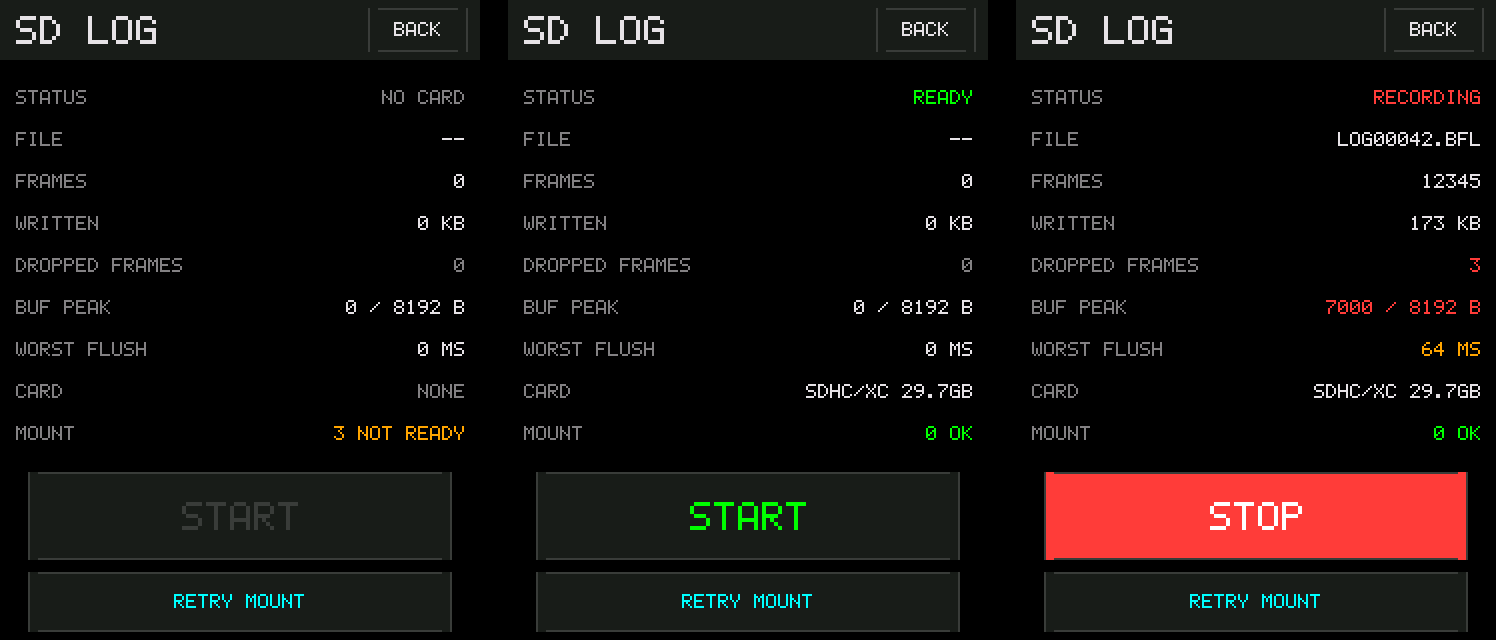
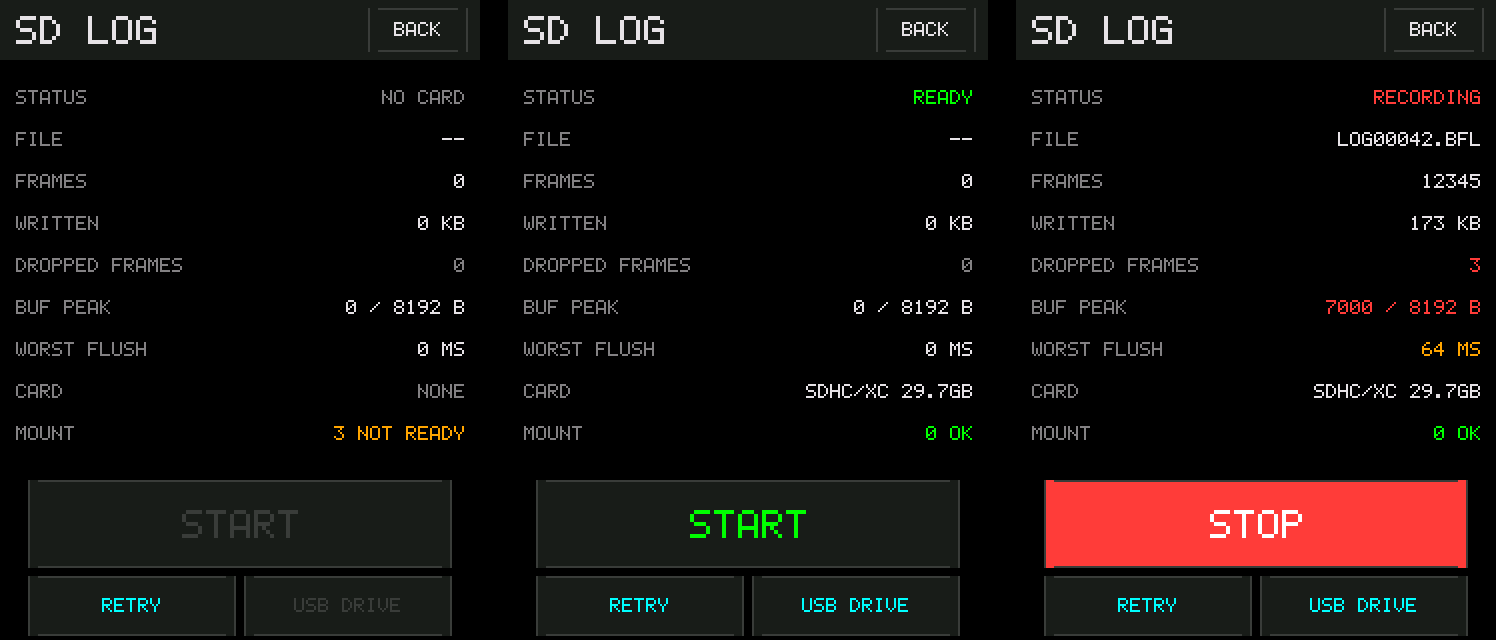
docs: the USB drive, in English and German
On the SD Logging pages, where someone looking for their files already is,
rather than a page of its own.

Three things the manual leads with, because they are the three that surprise
people: it is read-only and a host saying "write protected" is that working
rather than a fault; the card is handed over rather than shared, which is why
the counters disappear while a computer has it; and the button refuses with a
reason, with a table of the three reasons and what to do about each.

Also that arming is blocked while a computer holds the card, since BACK does not
cancel a copy and the tester screen is therefore reachable in that state -- a
board that will not arm and does not say why is a bug report.

diff --git a/wiki/SD-Aufzeichnung.md b/wiki/SD-Aufzeichnung.md
@@ -80,6 +80,52 @@ Karte nicht von einer zu unterscheiden, die die Firmware nicht lesen kann.
 
 ---
 
+## Aufzeichnungen ohne Kartenleser holen
+
+<img src="img/log-usb-serving.png" width="240" alt="Die Karte als USB-Laufwerk">
+
+`USB DRIVE` auf dem SD-LOG-Bildschirm übergibt die Karte an das, woran das
+USB-Kabel steckt. Sie erscheint als ganz normales Wechsellaufwerk: `.BFL`-Dateien
+herüberkopieren, am Computer auswerfen, und der Tester nimmt die Karte zurück.
+
+Die Platine ist ohnehin immer ein USB-Gerät — daher kommt der Strom, und daher
+kommt der serielle Anschluss — es kommt also ein Kartenleser auf dasselbe Kabel,
+statt dass etwas Neues nötig wäre.
+
+**Es wird nur gelesen.** Der Computer kann Dateien herunterkopieren und sonst
+nichts. Das ist Absicht: so kann kein Dateisystemtreiber eine Karte voller
+Messungen beschädigen, und die Nummerierung der Aufzeichnungen kann sich nicht
+unter der Firmware verändern. Meldet dein Computer, der Datenträger sei
+schreibgeschützt, dann funktioniert genau das.
+
+**Die Karte wird übergeben, nicht geteilt.** Ein FAT-Dateisystem kann zwischen
+zwei Schreibern nicht vermitteln, und Firmware und Computer sehen die Puffer des
+jeweils anderen nicht. Deshalb leert, schließt und hängt der Logger aus, bevor
+das Laufwerk erscheint, und rührt die Karte bis zum Auswerfen nicht an. Solange
+das gilt, zeigt der SD-LOG-Bildschirm die Übergabe statt seiner Zähler — die
+stünden still, und ein stillstehender Zähler, der lebendig aussieht, ist genau
+das, was diese Firmware nie zeigen will.
+
+**Die Schaltfläche lehnt ab und nennt den Grund:**
+
+<img src="img/log-usb-refused.png" width="240" alt="USB DRIVE während der Aufzeichnung abgelehnt">
+
+| Meldung | Was zu tun ist |
+|---|---|
+| `DISARM FIRST` | Ein Motor dreht. Die Übergabe hält den Logger sekundenlang an |
+| `STOP RECORDING FIRST` | Deinen Lauf zu beenden ist deine Entscheidung, nicht die der Firmware |
+| `NO CARD TO SHARE` | Es ist nichts eingebunden |
+
+**Scharfschalten ist gesperrt, solange ein Computer die Karte hat.** Du kannst
+den Bildschirm verlassen — `BACK` bricht einen laufenden Kopiervorgang nicht ab
+— der Tester-Bildschirm ist also ohne Karte erreichbar, und er schaltet erst
+wieder scharf, wenn du ausgeworfen hast.
+
+Am Computer auswerfen oder `EJECT` auf dem Bildschirm drücken. Beides tut
+dasselbe.
+
+---
+
 ## Die Aufzeichnungen öffnen
 
 <a href="https://subtilitas.github.io/logwiju/"><img src="https://img.shields.io/badge/open%20your%20logs%20in-logwiju-07b0c8?style=for-the-badge" alt="Aufzeichnungen in logwiju öffnen"></a>

diff --git a/wiki/SD-Logging.md b/wiki/SD-Logging.md
@@ -75,6 +75,48 @@ from a card the firmware cannot read.
 
 ---
 
+## Getting the logs off without a card reader
+
+<img src="img/log-usb-serving.png" width="240" alt="The card served as a USB drive">
+
+`USB DRIVE` on the SD LOG screen hands the card to whatever the USB cable is
+plugged into. It appears as an ordinary removable drive; copy the `.BFL` files
+off, eject it on the computer, and the tester takes the card back.
+
+The board is always a USB device — that is how it gets power and how the serial
+port works — so this adds a card reader to the same cable rather than needing
+anything new.
+
+**It is read-only.** The computer can copy files off and nothing else. That is
+deliberate: it means a host filesystem driver cannot corrupt a card full of
+measurements, and the log numbering cannot change under the firmware's feet. If
+your computer says the disk is write protected, that is this, working.
+
+**The card is handed over, not shared.** A FAT filesystem has no way to arbitrate
+between two writers, and the firmware and your computer cannot see each other's
+caches. So the logger flushes, closes and unmounts before the drive appears, and
+touches nothing until you eject. While that is true, the SD LOG screen shows the
+handover instead of its counters — they would be frozen, and a frozen counter
+that looks live is the one thing this firmware tries never to show you.
+
+**The button refuses, and says why:**
+
+<img src="img/log-usb-refused.png" width="240" alt="USB DRIVE refused while recording">
+
+| Caption | What to do |
+|---|---|
+| `DISARM FIRST` | A motor is spinning. The handover pauses the logger for seconds |
+| `STOP RECORDING FIRST` | Ending your run is your decision, not the firmware's |
+| `NO CARD TO SHARE` | Nothing is mounted |
+
+**Arming is blocked while a computer holds the card.** You can leave the screen —
+`BACK` does not cancel a copy in progress — so the tester screen is reachable
+with the card gone, and it will not arm until you eject.
+
+Eject from the computer, or press `EJECT` on the screen. Both do the same thing.
+
+---
+
 ## Opening the logs
 
 <a href="https://subtilitas.github.io/logwiju/"><img src="https://img.shields.io/badge/open%20your%20logs%20in-logwiju-07b0c8?style=for-the-badge" alt="Open your logs in logwiju"></a>

diff --git a/README.md b/README.md
@@ -518,6 +518,14 @@ so the question can be settled with data. The arithmetic is in
 ### Blackbox logging to microSD
 
 Logs are written in Betaflight's blackbox format, so they open directly in
+**Getting the files off:** `CFG -> SD LOG -> USB DRIVE` hands the card to
+whatever the USB cable is plugged into, as a read-only removable drive — the
+board is already a USB device, so this is a second interface on the same cable
+rather than anything new. The handover is exclusive: the logger unmounts before
+the drive appears and touches nothing until you eject, because two writers with
+independent caches is how a FAT volume gets corrupted. Refused while armed or
+recording, and it says which. @see `src/usb_msc.h`
+
 [**logwiju**](https://subtilitas.github.io/logwiju/) — the intended viewer for
 these logs — as well as Blackbox Explorer, `blackbox_decode` and PIDtoolbox.
 Files are named `LOGnnnnn.BFL` on a FAT-formatted card.
